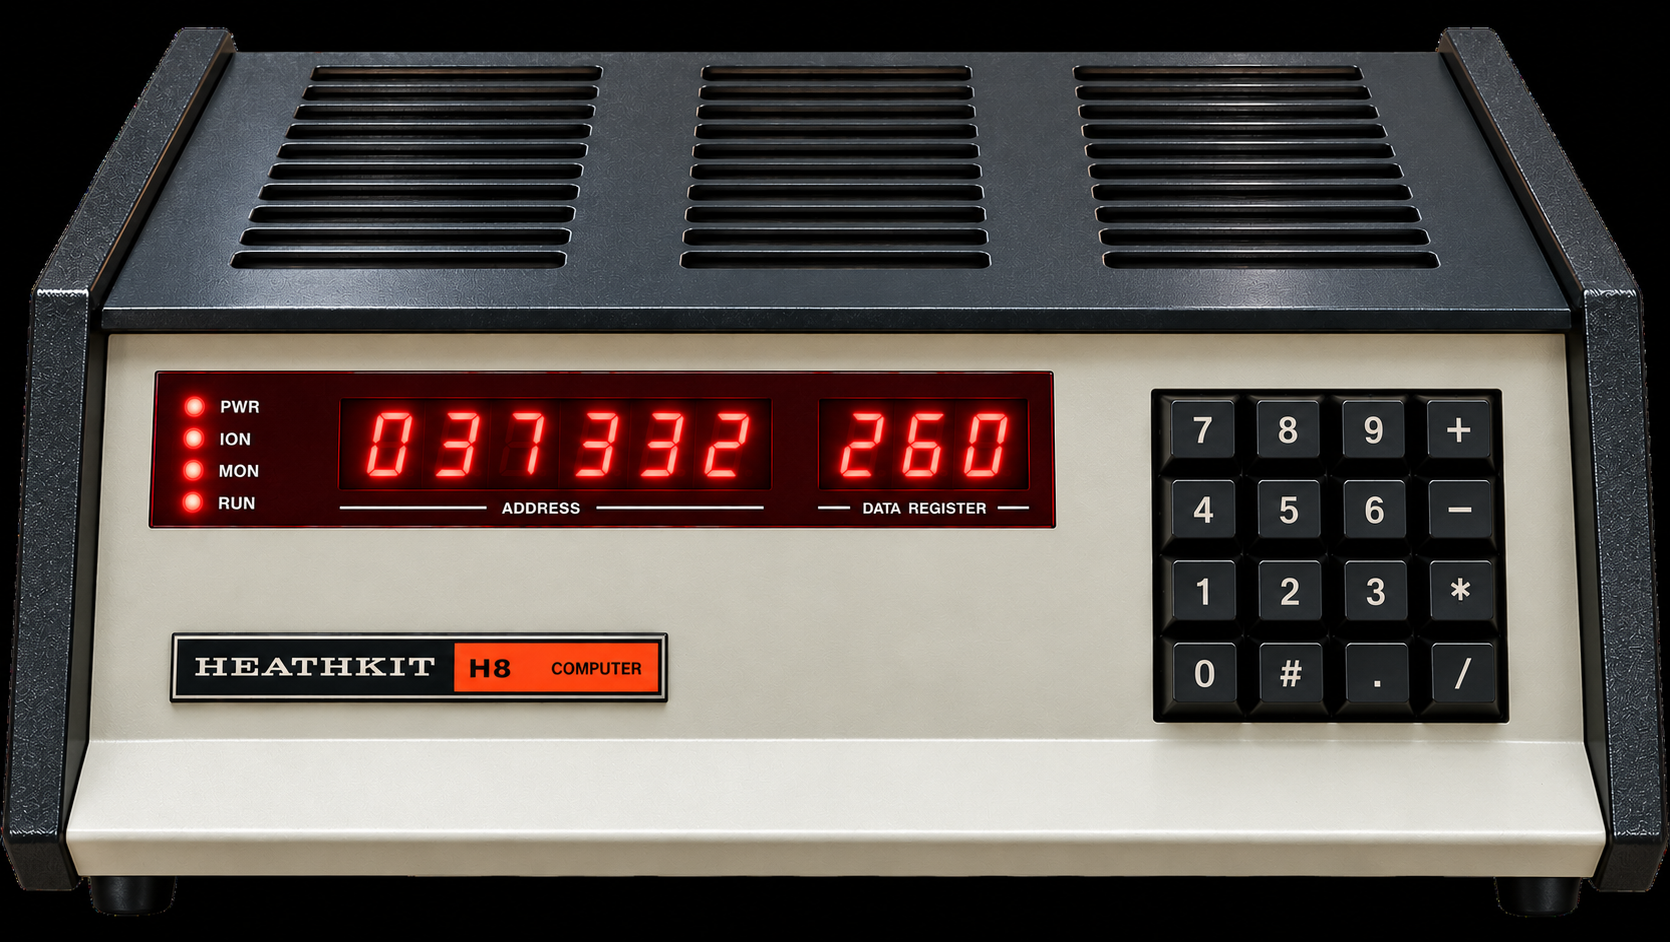
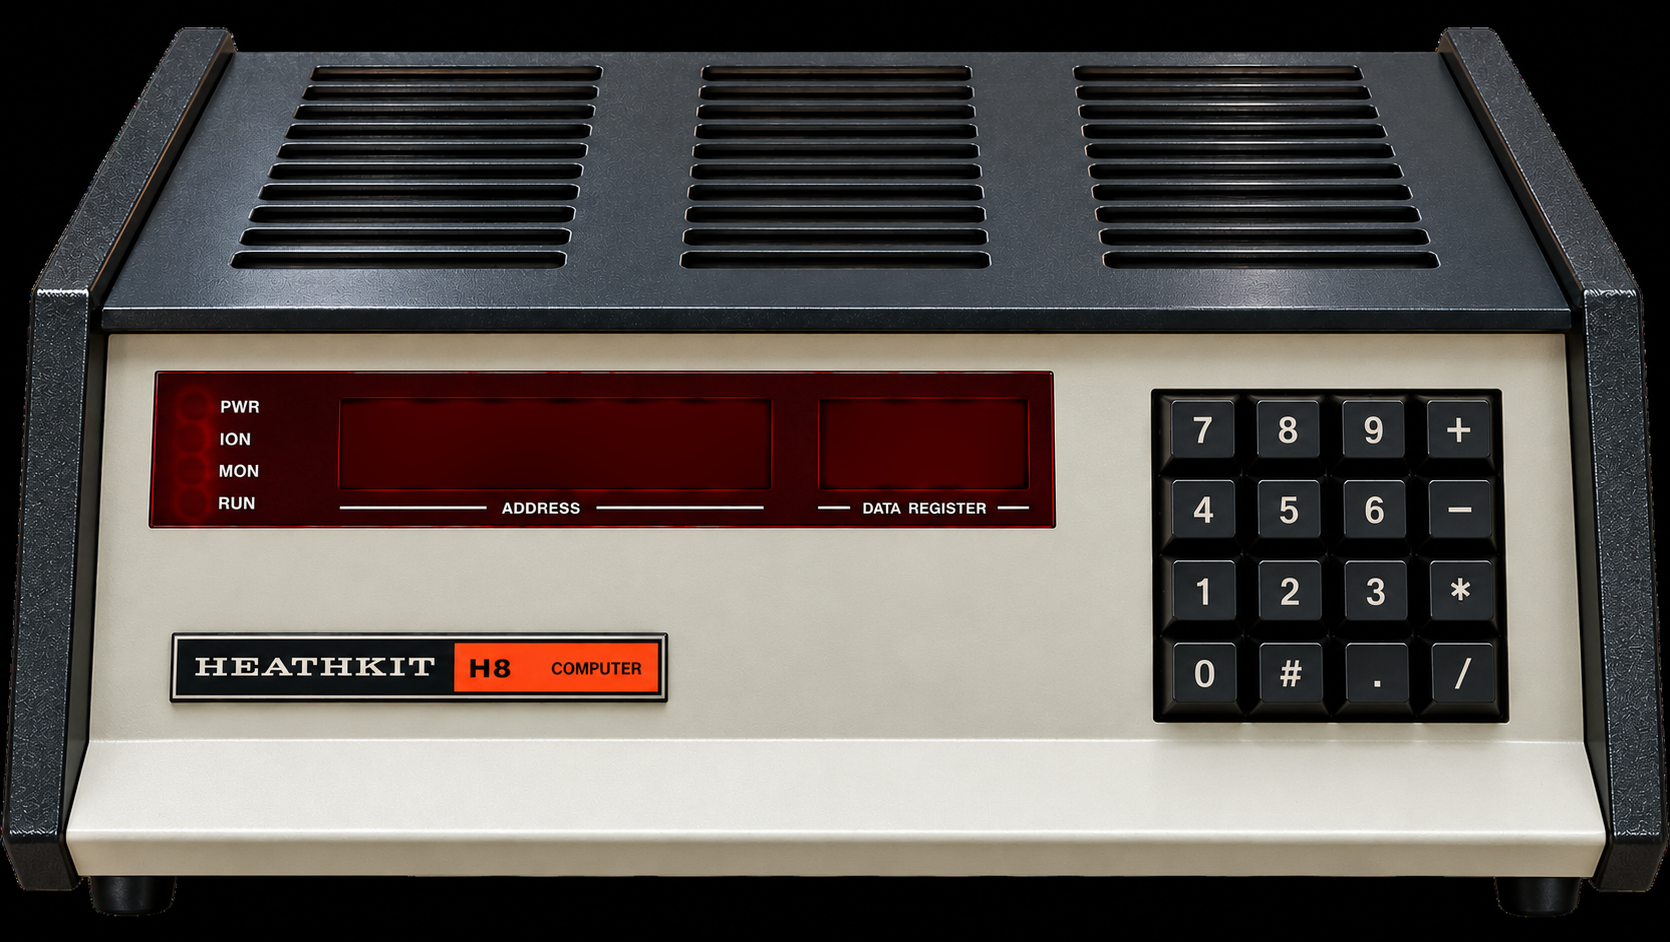
H8 photo panel: live display and lamps driven by the emulator
The static digits and lamps in h8.png are retouched out (clean glass windows,
clean lamp areas). The emulator's 9 seven-segment digits (slanted to match the
photo) and the PWR/ION/MON/RUN lamps are drawn on top at positions measured in
photo pixels, so the photographed keys, display and lamps are all live.

Claude-Session: https://claude.ai/code/session_01R6M73ZcyhcVSS595MergNc

Changed region(s): [[0.218, 0.431, 0.4671, 0.5234], [0.4982, 0.431, 0.6228, 0.5234], [0.0934, 0.4002, 0.1246, 0.5541]]

diff --git a/src/h8-authentic.css b/src/h8-authentic.css
@@ -43,3 +43,30 @@ body.cal #h9lineH8{outline:1px solid red}
 .h9-stage .crt{position:absolute;left:var(--scr-left);top:var(--scr-top);width:var(--scr-width);height:var(--scr-height);padding:0;border:0;background:none;border-radius:0;overflow:visible;cursor:text}
 .h9-stage .crt:focus-visible{box-shadow:none;outline:1px solid rgba(179,58,43,.35)}
 #h9canvas{position:absolute;inset:0;width:100%;height:100%;filter:drop-shadow(0 0 2px var(--h9ph)) drop-shadow(0 0 7px rgba(80,255,190,.55))}
+
+/* Live H8 display: the photo's digit windows and lamps are blanked in h8.png; the emulator's
+   9 digits and 4 lamps are drawn on top at positions measured in photo px (1670x942). */
+.machine.authentic-h8 .display-block{display:block;position:absolute;left:0;top:0;width:100%;height:100%;padding:0;margin:0;background:none;border:0;box-shadow:none;z-index:2;pointer-events:none}
+.machine.authentic-h8 .display-legend,.machine.authentic-h8 .panel-note{display:none}
+.machine.authentic-h8 .led-window{position:absolute;left:0;top:0;width:100%;height:100%;padding:0;margin:0;background:none;border:0;box-shadow:none;display:block;overflow:visible}
+.machine.authentic-h8 .digit,.machine.authentic-h8 .digit.gap{position:absolute;margin:0;top:43.312%;width:2.994%;height:7.856%;transform:skewX(-10deg);overflow:visible;filter:drop-shadow(0 0 2px rgba(255,50,30,.85)) drop-shadow(0 0 7px rgba(255,30,10,.45))}
+.machine.authentic-h8 .digit polygon,.machine.authentic-h8 .digit circle{fill:rgba(120,22,14,.28)}
+.machine.authentic-h8 .digit polygon.on,.machine.authentic-h8 .digit circle.on{fill:#ff4a30}
+.machine.authentic-h8 .digit:not(:has(.on)){filter:none}
+.machine.authentic-h8 .panel-lamps{position:absolute;left:0;top:0;width:100%;height:100%;margin:0;gap:0;display:block}
+.machine.authentic-h8 .panel-lamps::before{content:"";position:absolute;left:10.838%;top:41.72%;width:1.557%;height:2.76%;border-radius:50%;background:radial-gradient(circle,#fff 0 18%,#ffe0d4 28%,#ff6a4a 48%,#e0200f 66%,rgba(255,40,20,0) 100%)}
+.machine.authentic-h8 .panel-lamps .lamp{position:absolute;width:1.557%;height:2.76%;margin:0;gap:0;font-size:0;color:transparent;display:block}
+.machine.authentic-h8 .panel-lamps .lamp i{display:block;width:100%;height:100%;border-radius:50%;background:radial-gradient(circle,#4a0e0a 0 38%,#3a0a07 55%,#2a0705 70%,rgba(40,5,3,0) 100%);box-shadow:none}
+.machine.authentic-h8 .panel-lamps .lamp.on i{background:radial-gradient(circle,#fff 0 18%,#ffe0d4 28%,#ff6a4a 48%,#e0200f 66%,rgba(255,40,20,0) 100%)}
+.machine.authentic-h8 .digit:nth-child(1){left:21.916%}
+.machine.authentic-h8 .digit:nth-child(2){left:26.168%}
+.machine.authentic-h8 .digit:nth-child(3){left:30.419%}
+.machine.authentic-h8 .digit:nth-child(4){left:34.671%}
+.machine.authentic-h8 .digit:nth-child(5){left:38.862%}
+.machine.authentic-h8 .digit:nth-child(6){left:43.114%}
+.machine.authentic-h8 .digit:nth-child(7){left:50.18%}
+.machine.authentic-h8 .digit:nth-child(8){left:53.832%}
+.machine.authentic-h8 .digit:nth-child(9){left:57.485%}
+.machine.authentic-h8 #lampIon{left:10.659%;top:45.117%}
+.machine.authentic-h8 #lampMon{left:10.659%;top:48.514%}
+.machine.authentic-h8 #lampRun{left:10.719%;top:51.911%}
